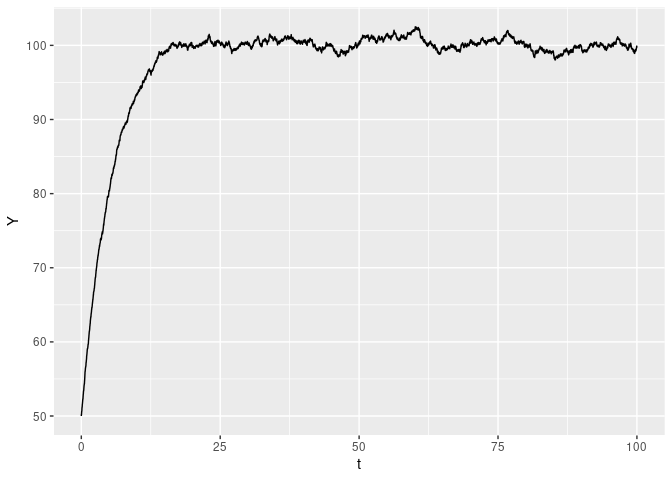
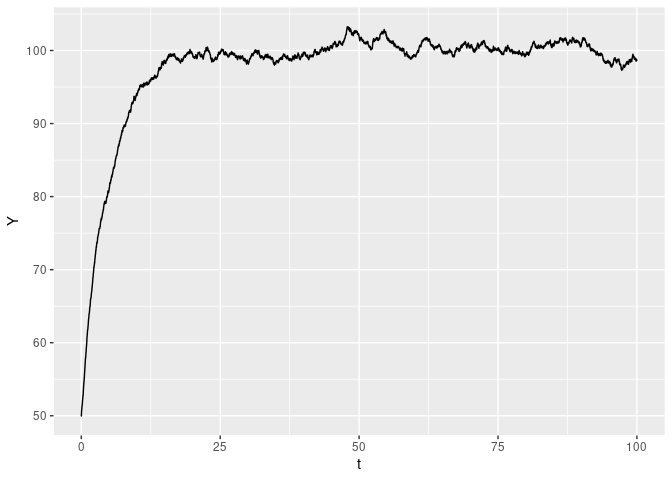
minor changes

diff --git a/README.md b/README.md
@@ -9,6 +9,9 @@ models. The current version includes:
   - Ornstein-Uhlenbeck process (models spread of pairs-trading
     strategies, etc)
 
+  - Geometric Ornstein-Uhlenbeck process (models mean-reverting price
+    series, etc)
+
   - Geometric Brownian motion (models stock prices, indices, etc)
 
   - etc
